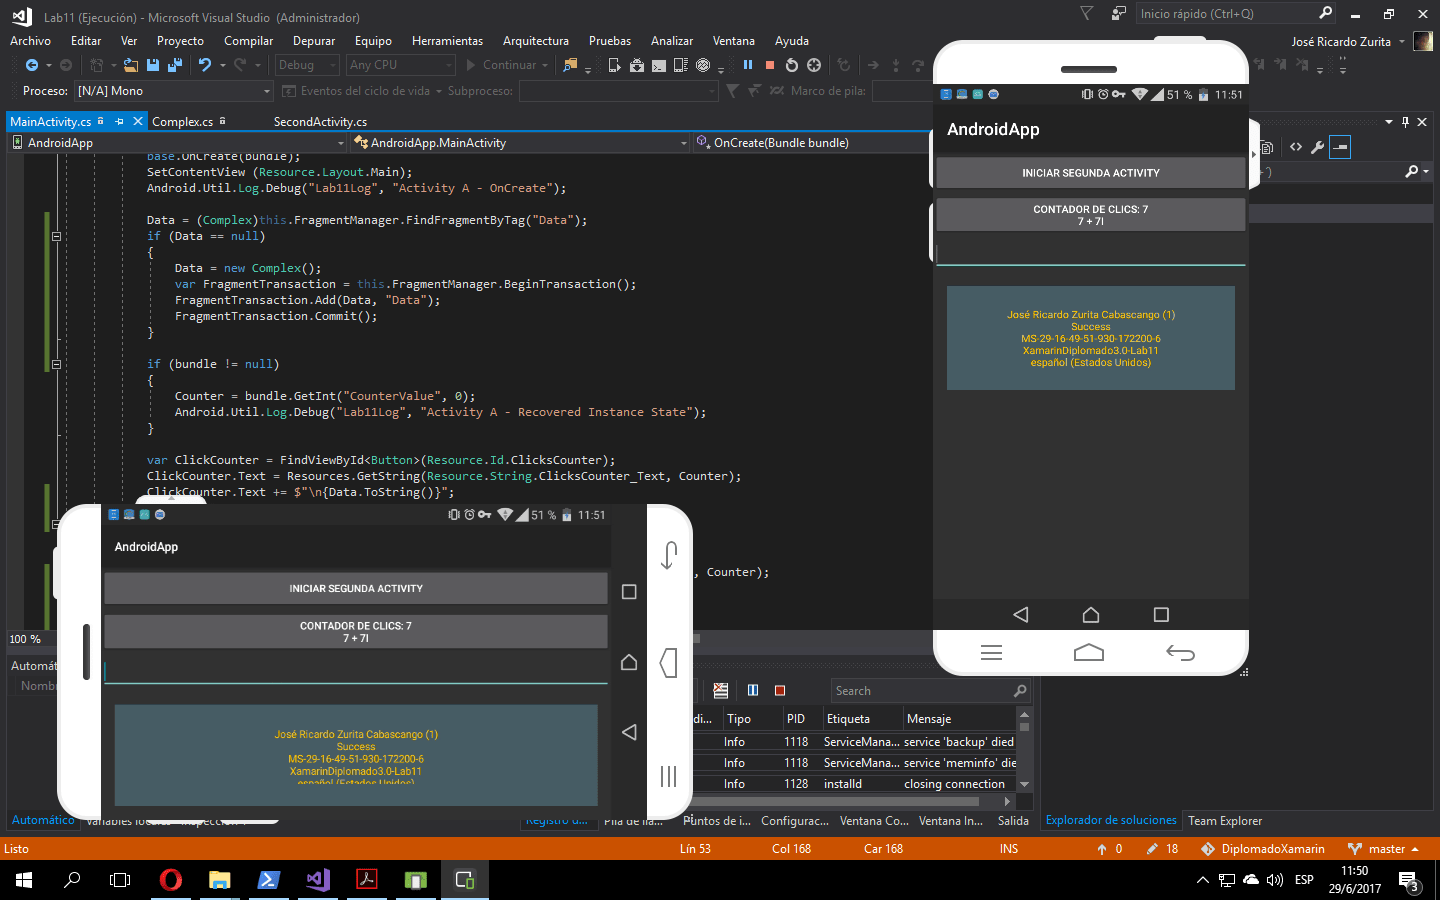
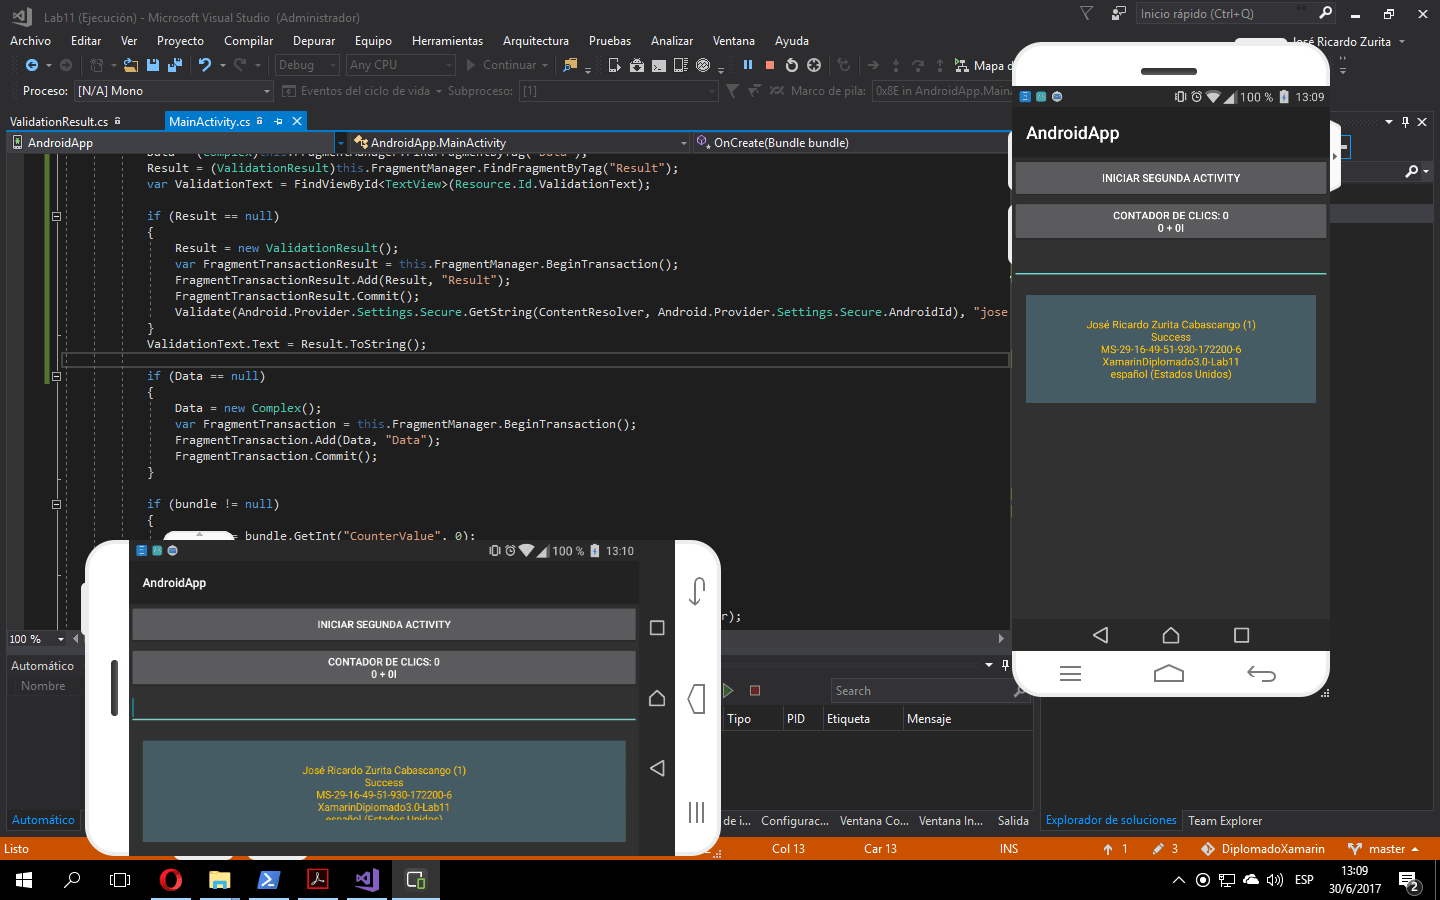
Agregada persistencia de resultado de la validación

diff --git a/Lab11/AndroidApp/MainActivity.cs b/Lab11/AndroidApp/MainActivity.cs
@@ -8,6 +8,7 @@ namespace AndroidApp
     public class MainActivity : Activity
     {
         Complex Data;
+        ValidationResult Result;
         int Counter = 0;
         protected override void OnCreate(Bundle bundle)
         {
@@ -16,6 +17,19 @@ namespace AndroidApp
             Android.Util.Log.Debug("Lab11Log", "Activity A - OnCreate");
 
             Data = (Complex)this.FragmentManager.FindFragmentByTag("Data");
+            Result = (ValidationResult)this.FragmentManager.FindFragmentByTag("Result");
+            var ValidationText = FindViewById<TextView>(Resource.Id.ValidationText);
+
+            if (Result == null)
+            {
+                Result = new ValidationResult();
+                var FragmentTransactionResult = this.FragmentManager.BeginTransaction();
+                FragmentTransactionResult.Add(Result, "Result");
+                FragmentTransactionResult.Commit();
+                Validate(Android.Provider.Settings.Secure.GetString(ContentResolver, Android.Provider.Settings.Secure.AndroidId), "jose.zurita@epn.edu.ec", "**************");
+            }
+            ValidationText.Text = Result.ToString();
+
             if (Data == null)
             {
                 Data = new Complex();
@@ -43,14 +57,9 @@ namespace AndroidApp
                 Data.Imaginary++;
                 ClickCounter.Text += $"\n{Data.ToString()}";
             };
-
             FindViewById<Button>(Resource.Id.StartActivity).Click += (sender, e) => {
-                var ActivityIntent =
-                new Android.Content.Intent(this, typeof(SecondActivity));
-                StartActivity(ActivityIntent);
+                
             };
-
-            Validate(Android.Provider.Settings.Secure.GetString(ContentResolver, Android.Provider.Settings.Secure.AndroidId), "jose.zurita@epn.edu.ec", "**************");
         }
 
         protected override void OnSaveInstanceState(Bundle outState)
@@ -98,13 +107,13 @@ namespace AndroidApp
 
         public async void Validate(string device, string correo, string contrasena)
         {
-            var ValidationText = FindViewById<TextView>(Resource.Id.ValidationText);
             var ServiceClient = new SALLab11.ServiceClient();
             var SvcResult = await ServiceClient.ValidateAsync(
                 correo,
                 contrasena,
                 device);
-            ValidationText.Text = $"{SvcResult.Fullname}\n{SvcResult.Status}\n{SvcResult.Token}";
+
+            Result.SaveValidation(SvcResult);
         }
     }
 }

diff --git a/Lab11/AndroidApp/ValidationResult.cs b/Lab11/AndroidApp/ValidationResult.cs
@@ -1,0 +1,39 @@
+using System;
+using System.Collections.Generic;
+using System.Linq;
+using System.Text;
+
+using Android.App;
+using Android.Content;
+using Android.OS;
+using Android.Runtime;
+using Android.Views;
+using Android.Widget;
+
+namespace AndroidApp
+{
+    class ValidationResult:Fragment
+    {
+        string Fullname { get; set; }
+       SALLab11.Status Status { get; set; }
+        string Token { get; set; }
+
+        public override string ToString()
+        {
+            return $"{Fullname}\n{Status}\n{Token}";
+        }
+
+        public override void OnCreate(Bundle savedInstanceState)
+        {
+            base.OnCreate(savedInstanceState);
+            RetainInstance = true;
+        }
+
+        public void SaveValidation (SALLab11.ResultInfo result)
+        {
+            this.Fullname = result.Fullname;
+            this.Status = result.Status;
+            this.Token = result.Token;
+        }
+    }
+}
